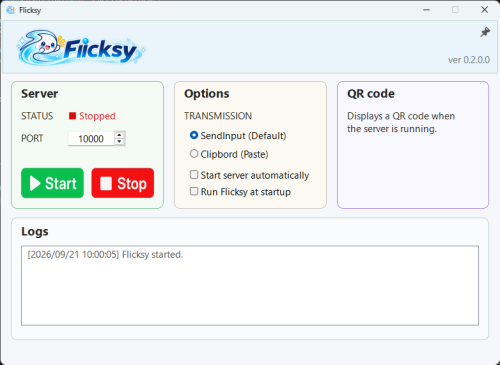
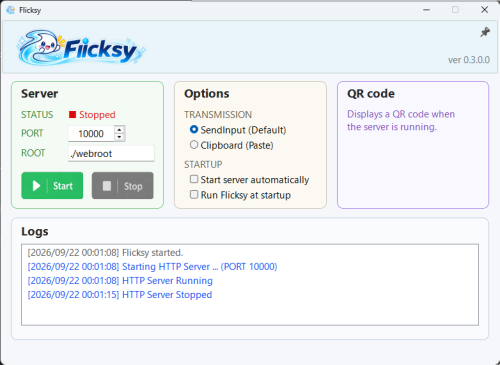
README update v0.3.0.0

diff --git a/README.md b/README.md
@@ -5,16 +5,6 @@ Windows PC の文字入力として利用するためのツールです。
 
 スマホ側に専用アプリは不要で、ブラウザから接続します。
 
-## Features
-
-- スマホ標準IMEをそのまま利用
-- ローカルHTTP経由で文字列送信
-- QRコード接続
-- Enter / Tab / Esc / BS
-- ↑ / ↓ / ← / →
-- SendInputによる文字入力
-- Clipboard経由入力にも対応予定
-
 ## Structure
 
 ```text
@@ -33,23 +23,26 @@ Windows Application
 
 ## Status
 
-現在開発中です。
+Currently under development.
 
 ## Screenshot
 
+server
 <img src="images/flicksy_server.png">
 
-## 今後は、
+client
+<img src="images/flicksy_client.png">
 
-- メインウィンドウUI
-- ログ表示
-- タスクトレイ常駐
-- Dark / Lightテーマ
-- SendInput / Clipboard切替
+## Roadmap
 
-などを実装予定です。
+- System tray support
+- Dark mode
+- Improved logging
+- Startup behavior improvements
+- Better mobile UI
 
 ## Development
+
 - C++17
 - Win32 API
 - Visual Studio 2022
@@ -57,10 +50,11 @@ Windows Application
 
 ## Dependencies
 
-- [QR-Code-generator](https://github.com/nayuki/QR-Code-generator)
-- [cpp-httplib](https://github.com/yhirose/cpp-httplib)
+- [cpp-httplib](https://github.com/yhirose/cpp-httplib) - MIT License
+- [QR-Code-generator](https://github.com/nayuki/QR-Code-generator) - MIT License
+- [toml++](https://github.com/marzer/tomlplusplus) - MIT License
 
-Both libraries are licensed under the MIT License.
+All third-party libraries listed above are licensed under the MIT License.
 See `THIRD_PARTY_LICENSES.txt` for details.
 
 ## License
